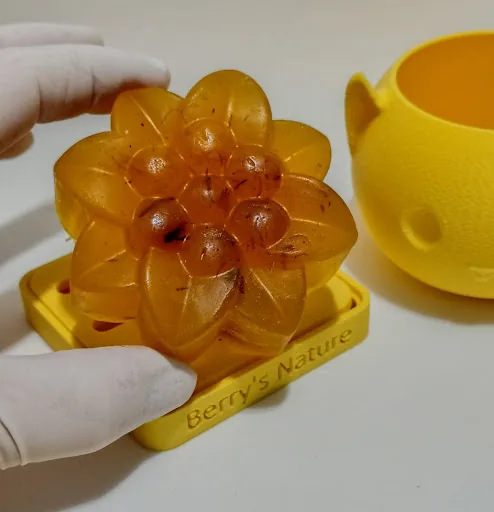
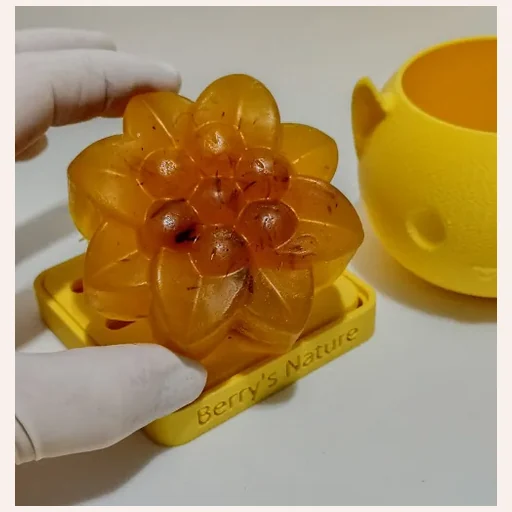
fix: conformidad feed Google Merchant Center (AR 2026)
Auditoría contra especificaciones oficiales: el feed cumplía los atributos
obligatorios pero tenia un error crítico de formato y datos de baja calidad.

P0 - availability: se emitia 'in stock'/'out of stock' con ESPACIO. Google
exige in_stock/out_of_stock/backorder con guion bajo. Nuevo helper
ofertaLib.estadoStock() compartido entre ficha y feed; stock<=0 con
disponible=true ahora es 'backorder' (la tienda acepta pedidos por encargo)
y emite g:availability_date. La ficha usa schema.org/BackOrder en el Offer
JSON-LD y texto acorde, evitando contradecir al feed.

P0 - identifier_exists: se emitia g:mpn con el slug interno. La marca es
propia y no hay GTIN, asi que se quita el MPN falso y se declara
identifier_exists=no. Se mantiene brand=Berry's Nature (fabricante real).

P1 - sale_price: los 7 productos con oferta emitian solo el precio final.
Ahora g:price es el precio original y g:sale_price el vigente, igual que
muestra la ficha (precio tachado). Reduce riesgo de desaprobacion preventiva
por diferencia feed vs landing.

P1 - imagenes: 3 principales estaban bajo el minimo de 500x500 de Google
(288x512, 410x512, 494x512). Regeneradas a 512x512 con padding crema sin
distorsion; originales respaldados en assets/productos/_originales/.
Actualizados width/height en index.html.

Tests: nuevo feed-merchant.spec.js (MF-01..07) valida el OUTPUT REAL del
XML con DB mockeada: availability exacto, identifier_exists, price/sale_price,
[…]

diff --git a/tests/e2e/feed-merchant.spec.js b/tests/e2e/feed-merchant.spec.js
@@ -1,0 +1,152 @@
+const { test, expect } = require('@playwright/test');
+
+/* Valida el OUTPUT REAL del feed de Merchant Center, no solo que el
+   código fuente contenga los strings (eso ya lo hace MP-03). Los valores
+   de availability con guion bajo y el identifier_exists son requisitos
+   estrictos de Google: un espacio en "in stock" puede desaprobar productos. */
+
+const db = require('../../server/lib/db');
+const pages = require('../../server/handlers/pages');
+const oferta = require('../../server/lib/oferta');
+
+let queryOriginal;
+let filas;
+
+const FIXTURE = [
+  {
+    id: 'jabon-avena', nombre: 'Jabón de Avena', categoria: 'Jabones',
+    descripcion: 'Jabón artesanal con avena.', precio: 4200, oferta: null,
+    stock: 12, disponible: true, imagen: 'assets/productos/p03.webp', imagenes: []
+  },
+  {
+    id: 'serum-oferta', nombre: 'Sérum con oferta', categoria: 'Facial',
+    descripcion: 'Sérum hidratante.', precio: 20000, oferta: 15000,
+    stock: 5, disponible: true, imagen: 'assets/productos/p04.webp', imagenes: []
+  },
+  {
+    id: 'producto-backorder', nombre: 'Producto por pedido', categoria: 'Facial',
+    descripcion: 'Se fabrica por pedido.', precio: 9000, oferta: null,
+    stock: -2, disponible: true, imagen: 'assets/productos/p05.webp', imagenes: []
+  },
+  {
+    id: 'sin-precio', nombre: 'Consultar precio', categoria: 'Facial',
+    descripcion: 'Sin precio cargado.', precio: null, oferta: null,
+    stock: 3, disponible: true, imagen: 'assets/productos/p06.webp', imagenes: []
+  }
+];
+
+test.beforeEach(() => {
+  queryOriginal = db.query;
+  filas = FIXTURE.map((f) => ({ ...f }));
+  db.query = async () => filas;
+  process.env.APP_URL = 'https://berrysnature.com.ar';
+});
+test.afterEach(() => {
+  db.query = queryOriginal;
+  delete process.env.APP_URL;
+});
+
+async function render() {
+  const res = {
+    statusCode: 200, headers: {}, body: '',
+    setHeader(k, v) { this.headers[k] = v; },
+    end(t) { this.body = t || ''; }
+  };
+  await pages.renderFeed({ url: '/feed.xml', headers: {} }, res);
+  return res;
+}
+
+function items(xml) {
+  return xml.split('<item>').slice(1).map((s) => s.split('</item>')[0]);
+}
+
+test.describe('Feed de Google Merchant Center', () => {
+  test('MF-01: availability usa los valores exactos de Google', async () => {
+    const res = await render();
+    const xml = res.body;
+    expect(xml).toContain('<g:availability>in_stock</g:availability>');
+    expect(xml).toContain('<g:availability>backorder</g:availability>');
+    expect(xml).toContain('<g:availability_date>');
+    expect(xml).not.toMatch(/in stock|out of stock/);
+    const valores = [...xml.matchAll(/<g:availability>([^<]+)<\/g:availability>/g)].map((m) => m[1]);
+    expect(valores.every((v) => ['in_stock', 'out_of_stock', 'backorder', 'preorder'].includes(v))).toBe(true);
+  });
+
+  test('MF-02: no se inventa MPN; se declara identifier_exists=no', async () => {
+    const res = await render();
+    expect(res.body).not.toContain('<g:mpn>');
+    expect((res.body.match(/<g:identifier_exists>no<\/g:identifier_exists>/g) || []).length).toBe(3);
+    expect(res.body).toContain('<g:brand>Berry\'s Nature</g:brand>');
+  });
+
+  test('MF-03: atributos obligatorios presentes y precios con formato ARS', async () => {
+    const res = await render();
+    const lista = items(res.body);
+    expect(lista).toHaveLength(3); // el de sin precio se excluye
+    for (const item of lista) {
+      for (const attr of ['id', 'title', 'description', 'link', 'image_link', 'price', 'availability', 'brand', 'condition']) {
+        expect(item, `falta g:${attr}`).toContain(`<g:${attr}>`);
+      }
+      expect(item).toMatch(/<g:price>\d+\.\d{2} ARS<\/g:price>/);
+      expect(item).toMatch(/<g:image_link>https:\/\//);
+    }
+  });
+
+  test('MF-04: oferta emite price original + sale_price; sin oferta solo price', async () => {
+    const res = await render();
+    const lista = items(res.body);
+    const conOferta = lista.find((i) => i.includes('<g:id>serum-oferta</g:id>'));
+    const sinOferta = lista.find((i) => i.includes('<g:id>jabon-avena</g:id>'));
+    expect(conOferta).toContain('<g:price>20000.00 ARS</g:price>');
+    expect(conOferta).toContain('<g:sale_price>15000.00 ARS</g:sale_price>');
+    expect(sinOferta).toContain('<g:price>4200.00 ARS</g:price>');
+    expect(sinOferta).not.toContain('<g:sale_price>');
+  });
+
+  test('MF-05: XML bien formado, sin comentarios JS ni entidades rotas', async () => {
+    const res = await render();
+    expect(res.body.startsWith('<?xml version="1.0" encoding="UTF-8"?>')).toBe(true);
+    expect(res.body).toContain('xmlns:g="http://base.google.com/ns/1.0"');
+    expect(res.body).not.toContain('/*');
+    expect(res.body).not.toContain('undefined');
+    expect(res.body).not.toContain('NaN');
+    expect((res.body.match(/<item>/g) || []).length).toBe((res.body.match(/<\/item>/g) || []).length);
+  });
+
+  test('MF-07: las imágenes principales del catálogo cumplen 500x500', () => {
+    const { execFileSync } = require('node:child_process');
+    const fs = require('node:fs');
+    const path = require('node:path');
+    const root = path.resolve(__dirname, '../..');
+    const codigo = [
+      'from PIL import Image',
+      'import os,sys',
+      'mal=[]',
+      'for f in sys.argv[1:]:',
+      ' p=os.path.join("assets/productos",f)',
+      ' if os.path.exists(p):',
+      '  im=Image.open(p)',
+      '  if min(im.size)<500: mal.append((f,im.size))',
+      'print("OK" if not mal else mal)',
+      'sys.exit(0 if not mal else 1)'
+    ].join('\n');
+    const archivos = [
+      'p16-shampoo-solido.webp', 'p18-agua-micelar.webp', 'p02-jabon-calendula.webp'
+    ];
+    for (const f of archivos) expect(fs.existsSync(path.join(root, 'assets/productos', f))).toBe(true);
+    const salida = execFileSync('python', ['-c', codigo, ...archivos], { cwd: root, encoding: 'utf8' }).trim();
+    expect(salida).toBe('OK');
+  });
+
+  test('MF-06: helper de stock coincide con el feed y el JSON-LD', () => {
+    expect(oferta.estadoStock({ stock: 5 }).feed).toBe('in_stock');
+    expect(oferta.estadoStock({ stock: 0 }).feed).toBe('backorder');
+    expect(oferta.estadoStock({ stock: -3 }).feed).toBe('backorder');
+    expect(oferta.estadoStock({ stock: null }).feed).toBe('in_stock');
+    const offer = oferta.ofertaJson({
+      precio: 100, url: 'https://x', enStock: false, backorder: true, base: 'https://x'
+    });
+    expect(offer.availability).toBe('https://schema.org/BackOrder');
+    expect(oferta.fechaDisponibilidad(7)).toMatch(/^\d{4}-\d{2}-\d{2}T\d{2}:\d{2}:\d{2}Z$/);
+  });
+});

diff --git a/server/handlers/pages.js b/server/handlers/pages.js
@@ -941,7 +941,8 @@ async function renderProduct(req, res, { id }) {
   const videos = videosLib.listaVideos(row.videos);
   const componentes = Array.isArray(row.componentes) ? row.componentes : [];
   // Stock null = sin control de stock → se considera disponible.
-  const enStock = (row.stock === null || row.stock === undefined) ? true : Number(row.stock) > 0;
+  const estadoInv = ofertaLib.estadoStock(row);
+  const enStock = estadoInv.enStock;
   const canonical = productoUrl(row.id);
   const ogImage = absAsset(row.imagen);
   const precioTxt = typeof precio === 'number'
@@ -1003,7 +1004,7 @@ async function renderProduct(req, res, { id }) {
     productLd.isRelatedTo = componentes.map((c) => ({ '@type': 'Product', name: c.nombre }));
   }
   const ofertaProducto = ofertaLib.ofertaJson({
-    precio: precioReal, url: canonical, enStock, base: siteUrl(), politicas: merchantPolicies()
+    precio: precioReal, url: canonical, enStock, backorder: estadoInv.backorder, base: siteUrl(), politicas: merchantPolicies()
   });
   // Sin precio real NO se publica Offer: hacerlo es un error crítico en GSC.
   if (ofertaProducto) productLd.offers = ofertaProducto;
@@ -1090,7 +1091,9 @@ async function renderProduct(req, res, { id }) {
                </p>`
             : `<p class="product-card__price${typeof precio === 'number' ? '' : ' is-consult'}">${esc(precioTxt)}</p>`}
           ${ratingCerca}
-          ${!enStock ? '<p class="product-detail__stockout">Sin stock — escribinos por disponibilidad.</p>' : (typeof row.stock === 'number' && row.stock > 0 ? '<p class="product-detail__stock">' + row.stock + ' disponibles</p>' : '')}
+          ${estadoInv.backorder
+            ? '<p class="product-detail__stock">Por pedido — escribinos para consultar la disponibilidad.</p>'
+            : (!enStock ? '<p class="product-detail__stockout">Sin stock — escribinos por disponibilidad.</p>' : (typeof row.stock === 'number' && row.stock > 0 ? '<p class="product-detail__stock">' + row.stock + ' disponibles</p>' : ''))}
           <div class="product-accordion">
             ${row.descripcion ? `<details class="product-accordion__item" open>
               <summary>Descripción</summary>
@@ -2219,12 +2222,22 @@ async function renderFeed(req, res) {
   const productos = rows.map(productoParaLd).filter((p) => typeof p.precio === 'number');
 
   const items = productos.map((p) => {
-    const enStock = (p.stock === null || p.stock === undefined) ? true : p.stock > 0;
-    /* Precio real de venta: oferta si es válida (menor al precio pleno),
-       sino el precio pleno. Así el feed coincide con lo que ve el usuario. */
-    const precioFinal = (typeof p.oferta === 'number' && p.oferta > 0 && p.oferta < p.precio)
-      ? p.oferta
-      : p.precio;
+    const estado = ofertaLib.estadoStock(p);
+    /* Google exige availability con GUION BAJO (in_stock / backorder).
+       `backorder` necesita fecha estimada; se calcula una por item. */
+    const availabilityXml = estado.backorder
+      ? `      <g:availability_date>${ofertaLib.fechaDisponibilidad(7)}</g:availability_date>\n`
+      : '';
+    /* g:price = precio original; g:sale_price = oferta vigente. Google
+       entiende sale_price como el importe final cobrado, que es lo que
+       muestra la ficha (precio tachado + oferta). Evita desaprobación
+       preventiva por diferencia de precio entre feed y landing. */
+    const conOferta = typeof p.oferta === 'number' && p.oferta > 0 && p.oferta < p.precio;
+    const precioOriginal = Number(p.precio).toFixed(2);
+    const precioFinal = conOferta ? Number(p.oferta).toFixed(2) : precioOriginal;
+    const salePriceXml = conOferta
+      ? `      <g:sale_price>${precioFinal} ARS</g:sale_price>\n`
+      : '';
     const link = `${base}/productos/${encodeURIComponent(p.id)}`;
     const desc = String(
       p.descripcion || `${p.nombre} — cosmética natural artesanal de Berry's Nature.`
@@ -2239,17 +2252,20 @@ async function renderFeed(req, res) {
     const adicionalesXml = adicionales
       .map((u) => `      <g:additional_image_link>${escXml(u)}</g:additional_image_link>`)
       .join('\n');
+    /* identifier_exists=no: son productos de marca propia, sin GTIN ni
+       MPN de fabricante. Declararlo evita que Google trate el slug como
+       identificador inválido (antes se emitía como g:mpn). */
     return `    <item>
       <g:id>${escXml(p.id)}</g:id>
       <g:title>${escXml(String(p.nombre).slice(0, 150))}</g:title>
       <g:description>${escXml(desc)}</g:description>
       <g:link>${escXml(link)}</g:link>
       <g:image_link>${escXml(portada)}</g:image_link>
-${adicionalesXml ? adicionalesXml + '\n' : ''}      <g:price>${Number(precioFinal).toFixed(2)} ARS</g:price>
-      <g:availability>${enStock ? 'in stock' : 'out of stock'}</g:availability>
-      <g:condition>new</g:condition>
+${adicionalesXml ? adicionalesXml + '\n' : ''}      <g:price>${precioOriginal} ARS</g:price>
+${salePriceXml}      <g:availability>${estado.feed}</g:availability>
+${availabilityXml}      <g:condition>new</g:condition>
       <g:brand>Berry's Nature</g:brand>
-      <g:mpn>${escXml(p.id)}</g:mpn>
+      <g:identifier_exists>no</g:identifier_exists>
       <g:product_type>${escXml(p.categoria || 'Cosmética natural')}</g:product_type>
     </item>`;
   }).join('\n');

diff --git a/server/lib/oferta.js b/server/lib/oferta.js
@@ -40,13 +40,18 @@ function tienePrecioValido(offer) {
  * @param {{precio:*, url:string, enStock:boolean, base:string, politicas?:object}} datos
  * @returns {object|null}
  */
-function ofertaJson({ precio, url, enStock, base, politicas = {} }) {
+function ofertaJson({ precio, url, enStock, backorder = false, base, politicas = {} }) {
   if (!precioValido(precio)) return null;
+  /* schema.org tiene BackOrder: usarlo evita decir "OutOfStock" en un
+     producto que SÍ se puede comprar (la tienda acepta stock negativo). */
+  const availability = backorder
+    ? 'https://schema.org/BackOrder'
+    : (enStock ? 'https://schema.org/InStock' : 'https://schema.org/OutOfStock');
   return {
     '@type': 'Offer',
     price: Number(precio),
     priceCurrency: 'ARS',
-    availability: enStock ? 'https://schema.org/InStock' : 'https://schema.org/OutOfStock',
+    availability,
     url,
     itemCondition: 'https://schema.org/NewCondition',
     seller: { '@type': 'Organization', name: "Berry's Nature", url: base },
@@ -54,4 +59,27 @@ function ofertaJson({ precio, url, enStock, base, politicas = {} }) {
   };
 }
 
-module.exports = { precioValido, tienePrecioValido, ofertaJson };
+/**
+ * Estado de inventario compartido entre la ficha y el feed.
+ * La tienda acepta pedidos con stock negativo (backorder), así que
+ * `disponible=true` con stock<=0 NO es "agotado": se puede vender.
+ * @returns {{enStock:boolean, backorder:boolean, feed:string}}
+ */
+function estadoStock(fila) {
+  const sinStock = fila && fila.stock !== null && fila.stock !== undefined && Number(fila.stock) <= 0;
+  return {
+    enStock: !sinStock,
+    backorder: Boolean(sinStock),
+    /* Valores EXACTOS que exige Google Merchant (guion bajo, no espacio). */
+    feed: sinStock ? 'backorder' : 'in_stock'
+  };
+}
+
+/** Fecha estimada para g:availability_date (RFC 3339, hoy + días). */
+function fechaDisponibilidad(dias = 7) {
+  const d = new Date();
+  d.setDate(d.getDate() + dias);
+  return d.toISOString().replace(/\.\d{3}Z$/, 'Z');
+}
+
+module.exports = { precioValido, tienePrecioValido, ofertaJson, estadoStock, fechaDisponibilidad };

diff --git a/index.html b/index.html
@@ -340,7 +340,7 @@
           </article>
           <article class="home-product">
             <a class="home-product__media" href="/productos/shampoo-solido">
-              <img src="assets/productos/p16-shampoo-solido.webp" width="288" height="512" alt="Shampoo Sólido de Berry's Nature" loading="lazy" decoding="async">
+              <img src="assets/productos/p16-shampoo-solido.webp" width="512" height="512" alt="Shampoo Sólido de Berry's Nature" loading="lazy" decoding="async">
             </a>
             <div class="home-product__body">
               <p class="home-product__meta">Cabello · 100 g</p>
@@ -362,7 +362,7 @@
           </article>
           <article class="home-product">
             <a class="home-product__media" href="/productos/agua-micelar">
-              <img src="assets/productos/p18-agua-micelar.webp" width="410" height="512" alt="Agua Micelar Berry's Nature" loading="lazy" decoding="async">
+              <img src="assets/productos/p18-agua-micelar.webp" width="512" height="512" alt="Agua Micelar Berry's Nature" loading="lazy" decoding="async">
             </a>
             <div class="home-product__body">
               <p class="home-product__meta">Facial · 200 ml</p>
